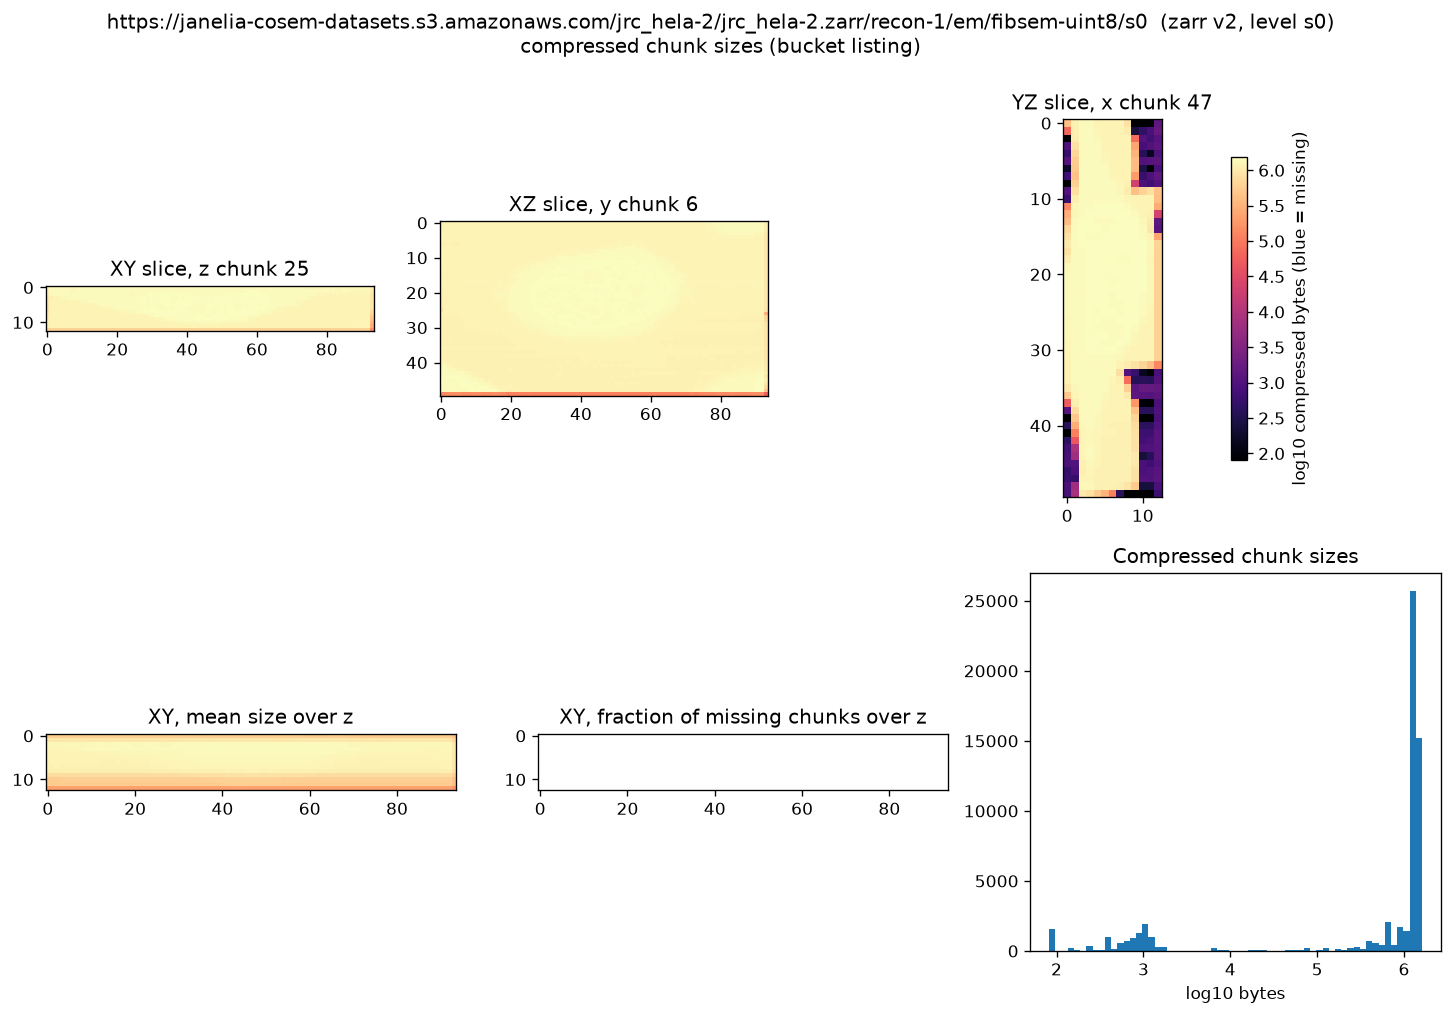
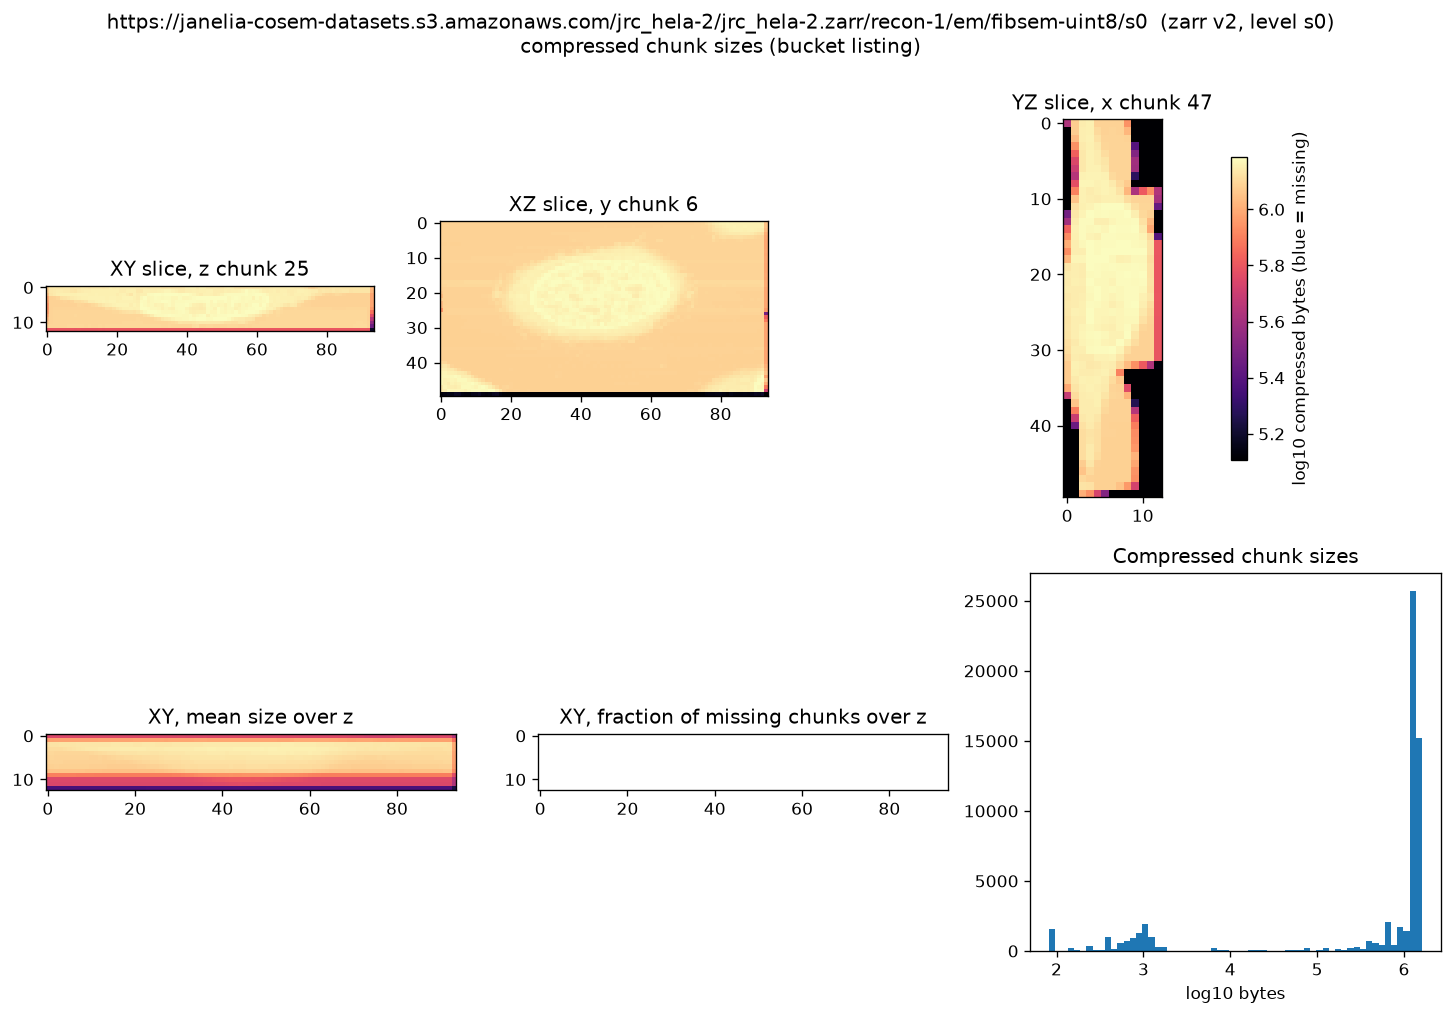
chunkmap: stretch colours over non-empty chunks so structure inside the sample shows
Claude-Session: https://claude.ai/code/session_01JpyHq4EQ7e93kpp6YFLrZv

diff --git a/chunkmap.py b/chunkmap.py
@@ -443,6 +443,17 @@ def precomputed_levels(url, info, a):
     return out
 
 
+def stretch(logsizes):
+    """Colour limits for log10 sizes, ignoring near-empty chunks (under 5% of the median
+    size): a few hundred constant edge chunks otherwise take up most of the range and the
+    structure inside the sample washes out."""
+    v = logsizes[np.isfinite(logsizes)]
+    if not v.size:
+        return 0.0, 1.0
+    core = v[v > np.median(v) + np.log10(0.05)]
+    return tuple(np.percentile(core if core.size > 10 else v, [1, 99]))
+
+
 # ---------- neuroglancer ----------
 SHADER = """#uicontrol invlerp size(range=[%.3f, %.3f])
 #uicontrol float opacity slider(min=0, max=1, default=0.6)
@@ -539,7 +550,7 @@ def neuroglancer_viewer(levels, data_source, bind, port, map_port):
     write_ome_map(mlev, outdir)
     map_url = serve_dir(outdir, bind, map_port)
     fin = mlev[0]["data"]
-    lo, hi = np.nanpercentile(fin, [1, 99]) if np.isfinite(fin).any() else (0.0, 1.0)
+    lo, hi = stretch(fin)
     neuroglancer.set_server_bind_address(bind, port)
     viewer = neuroglancer.Viewer()
     with viewer.txn() as s:
@@ -563,7 +574,7 @@ def render(sizes, out, title):
         a = a[None]
     pos = np.where(a > 0, a, np.nan)
     la = np.log10(pos)
-    lo, hi = np.nanpercentile(la, [1, 99]) if np.isfinite(la).any() else (0.0, 1.0)
+    lo, hi = stretch(la)
     cmap = plt.get_cmap("magma").copy()
     cmap.set_bad("#3a6ea5")  # missing chunks
     z, y, x = la.shape
